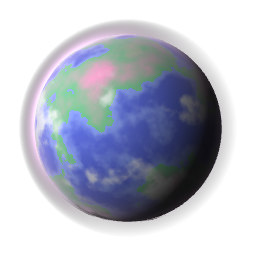
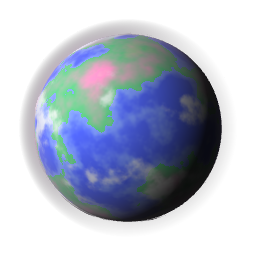
Planet globes: atmosphere glow halved, primary colours more saturated; faction-card images re-baked
Halo intensity 1.15 -> 0.575 and rim haze 0.75 -> 0.375; surface colour pushed 35% further from its grey before
lighting. Shared shader, so the menu's live globes and the re-baked content/planets PNGs match.

closes [MM-task_mvd3p8tl_m]

Claude-Session: https://claude.ai/code/session_01C4m8hBrH3mjD6inXmS6TcQ

Changed region(s): [[0.0938, 0.0938, 0.7812, 0.875], [0.25, 0.3438, 0.625, 0.6875]]

diff --git a/prototype/test-game/src/render3d/planet/globe.js b/prototype/test-game/src/render3d/planet/globe.js
@@ -32,13 +32,15 @@ export const SURF = `uniform vec3 uOcean[2]; uniform vec3 uLand[4]; uniform vec3
     if (uCrater > 0.5) { vec3 q = normalize(vP) * 7.0 + uSeed; vec3 ci = floor(q); float dmin = 9.0;
       for (int i = -1; i <= 1; i++) for (int j = -1; j <= 1; j++) for (int k = -1; k <= 1; k++) { vec3 o = ci + vec3(float(i), float(j), float(k)); vec3 cpt = o + vec3(gh(o), gh(o + 3.1), gh(o + 7.7)); dmin = min(dmin, length(q - cpt) / (0.25 + 0.5 * gh(o + 1.3))); }
       c *= 0.78 + 0.22 * smoothstep(0.55, 0.85, dmin) + 0.18 * (1.0 - smoothstep(0.85, 1.0, dmin)) * step(0.85, dmin); }
+    // richer primary colours (owner 2026-10-17): push the surface away from its grey by 35% [MM-task_mvd3p8tl_m]
+    { float L = dot(c, vec3(0.299, 0.587, 0.114)); c = clamp(mix(vec3(L), c, 1.35), 0.0, 1.0); }
     float cap = smoothstep(1.0 - uPolar - 0.04, 1.0 - uPolar + 0.04, lat + (gn(p * 4.0) - 0.5) * 0.12);
     c = mix(c, vec3(0.93, 0.96, 1.0), cap * step(0.001, uPolar));
     float nl = dot(normalize(vN), uSun), day = smoothstep(-0.15, 0.35, nl);
     vec3 col = c * (0.06 + 1.05 * max(nl, 0.0));
     if (uLava > 0.5 && h < uWater) col += uOcean[0] * 0.6 * (1.0 - day);
     float rim = pow(1.0 - max(dot(normalize(vN), vV), 0.0), 2.5);
-    col = mix(col, uHaze * (0.25 + day), rim * 0.75);
+    col = mix(col, uHaze * (0.25 + day), rim * 0.375);   // rim haze halved (owner 2026-10-17)
     gl_FragColor = vec4(col, 1.0);
   }`;
 export const CLOUD = `uniform float uCloud, uT, uSeed; uniform vec3 uSun; varying vec3 vN; varying vec3 vP; varying vec3 vV; ${GNOISE}
@@ -47,7 +49,7 @@ export const CLOUD = `uniform float uCloud, uT, uSeed; uniform vec3 uSun; varyin
     float nl = max(dot(normalize(vN), uSun), 0.0); gl_FragColor = vec4(vec3(0.95) * (0.08 + nl), c * 0.85); }`;
 // Additive on black in the design page; here the halo's brightness becomes its alpha so it sits on any card colour.
 export const ATMO = `uniform vec3 uHaze; uniform vec3 uSun; varying vec3 vN; varying vec3 vV;
-  void main() { float f = pow(clamp(-dot(normalize(vN), vV) * 1.9, 0.0, 1.0), 2.2) * 1.15;
+  void main() { float f = pow(clamp(-dot(normalize(vN), vV) * 1.9, 0.0, 1.0), 2.2) * 0.575;   // halo halved (owner 2026-10-17)
     float day = smoothstep(-0.4, 0.5, dot(normalize(vN), uSun));
     vec3 c = uHaze * f * (0.25 + day); float a = clamp(max(c.r, max(c.g, c.b)), 0.0, 1.0);
     gl_FragColor = vec4(c / max(a, 1e-3), a); }`;
